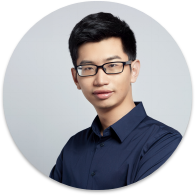
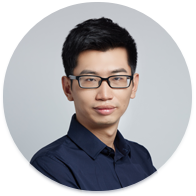
update one Team picture

diff --git a/src/app/app.component.ts b/src/app/app.component.ts
@@ -13,7 +13,7 @@ export class AppComponent implements OnInit {
   currentLanguage = '';
   languagesDic: any;
   languageList = [];
-  @Output() onLanguageChange = new EventEmitter<string>();
+  
   constructor( private language: LanguageService, private _cookieService: CookieService) {
   }
 
@@ -21,7 +21,6 @@ export class AppComponent implements OnInit {
     console.log('---------switch language----------' + languageSelection);
     this.language.switchLanguage(this.languagesDic[languageSelection]);
     this.currentLanguage = languageSelection;
-    this.onLanguageChange.emit(languageSelection);
     this._cookieService.put('SelectedLanguage', this.languagesDic[languageSelection]);
   }
   ngOnInit() {
